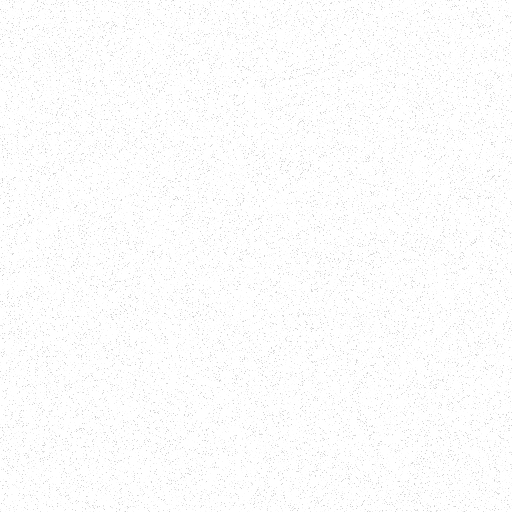
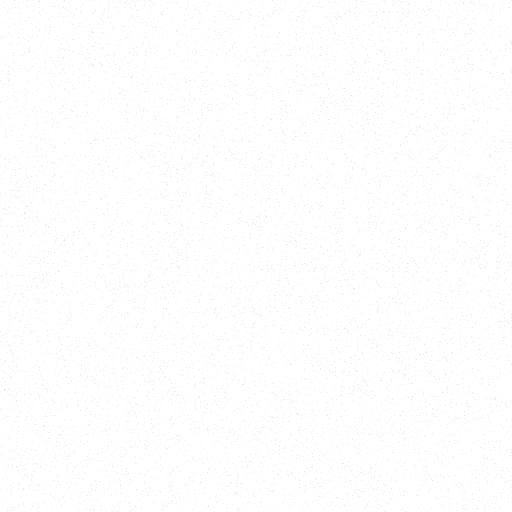
Thinner and paler again
One pixel in fourteen rather than eight, and the specks move closer to
the paper's own tone still: a dark one lands around 127 instead of 85, so
it darkens what is under it by some 14 levels rather than 28. Half the
density and half the contrast of the last pass.

diff --git a/src/components/DocumentCard.tsx b/src/components/DocumentCard.tsx
@@ -346,11 +346,11 @@ const styles = StyleSheet.create({
     // The card's own overflow: 'hidden' clips this to its corners.
     //
     // This multiplies with the image's own alpha - about one pixel in
-    // eight carries 20-75 of 255 - so what lands on the card is a couple
-    // of percent. Getting that product wrong by one factor is how the
+    // fourteen carries 15-50 of 255 - so what lands on the card is under
+    // a percent. Getting that product wrong by one factor is how the
     // first attempt came out at a third of a percent and looked like
     // nothing at all, and the second like television static.
-    opacity: 0.9,
+    opacity: 0.85,
   },
   row: {
     flexDirection: 'row',
